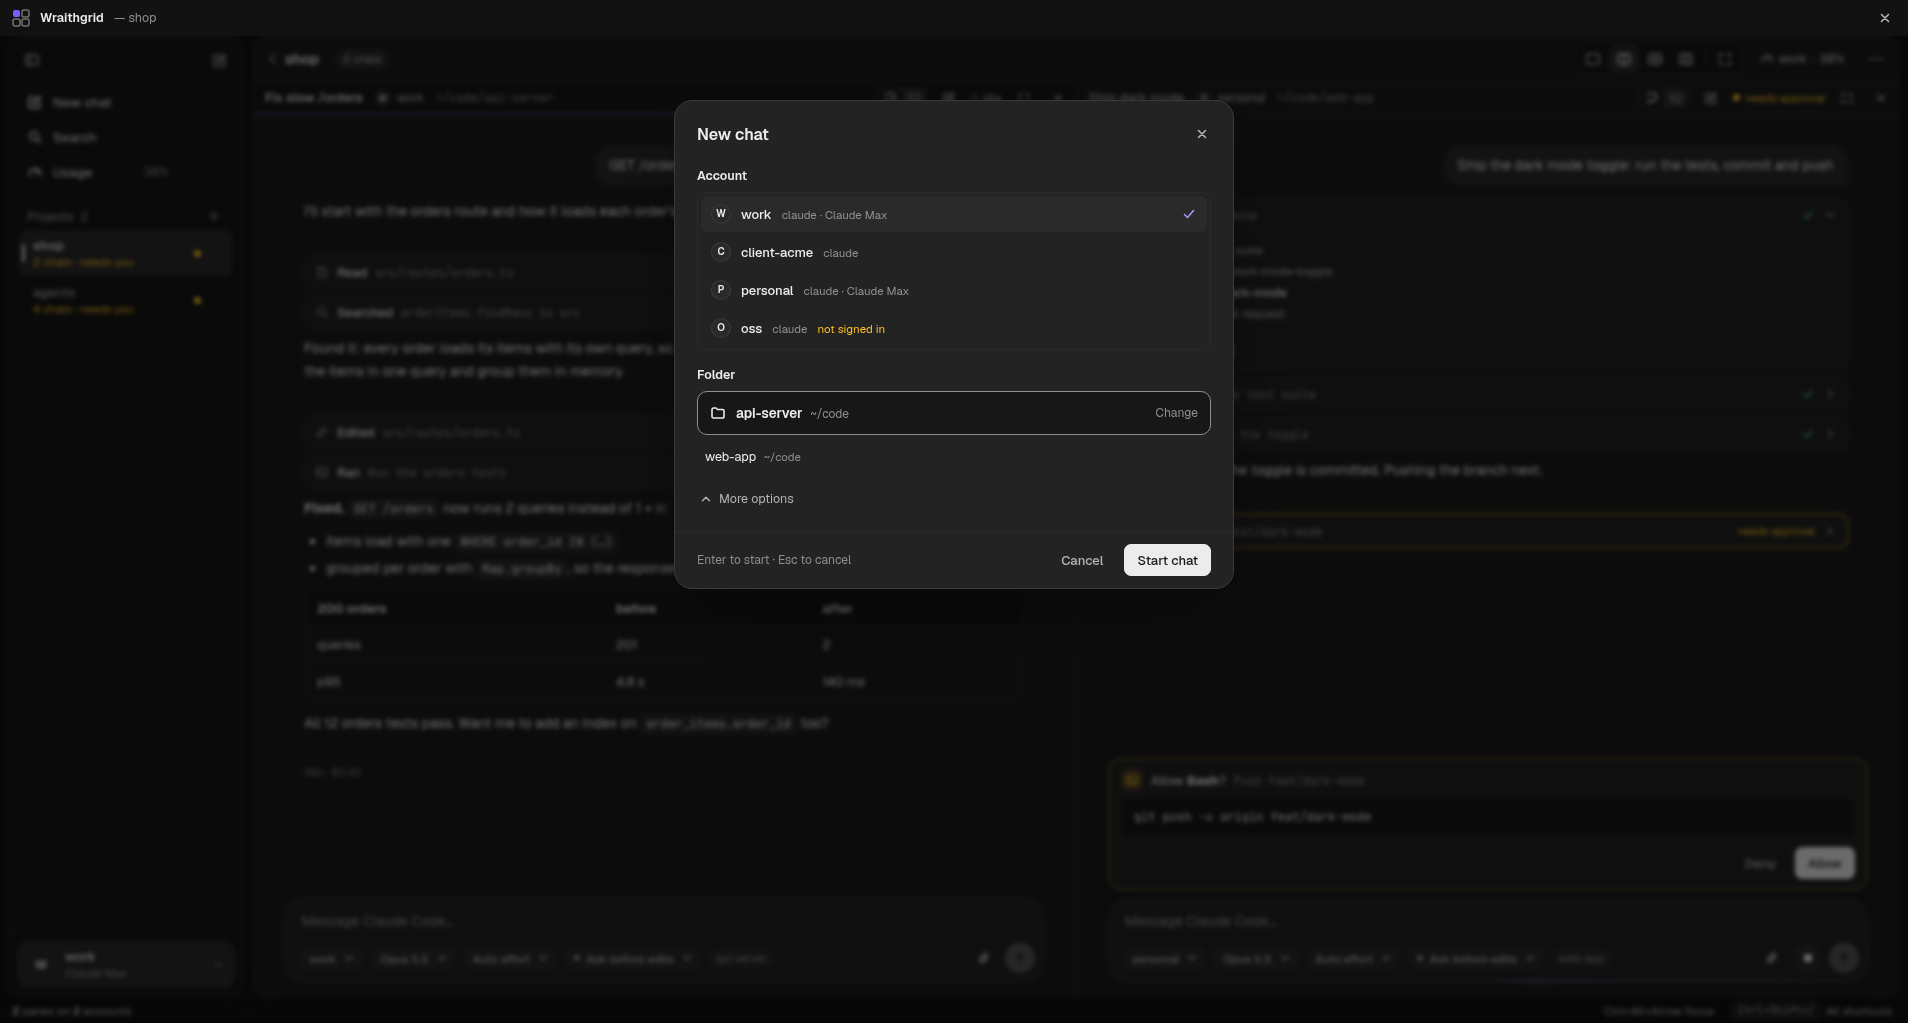
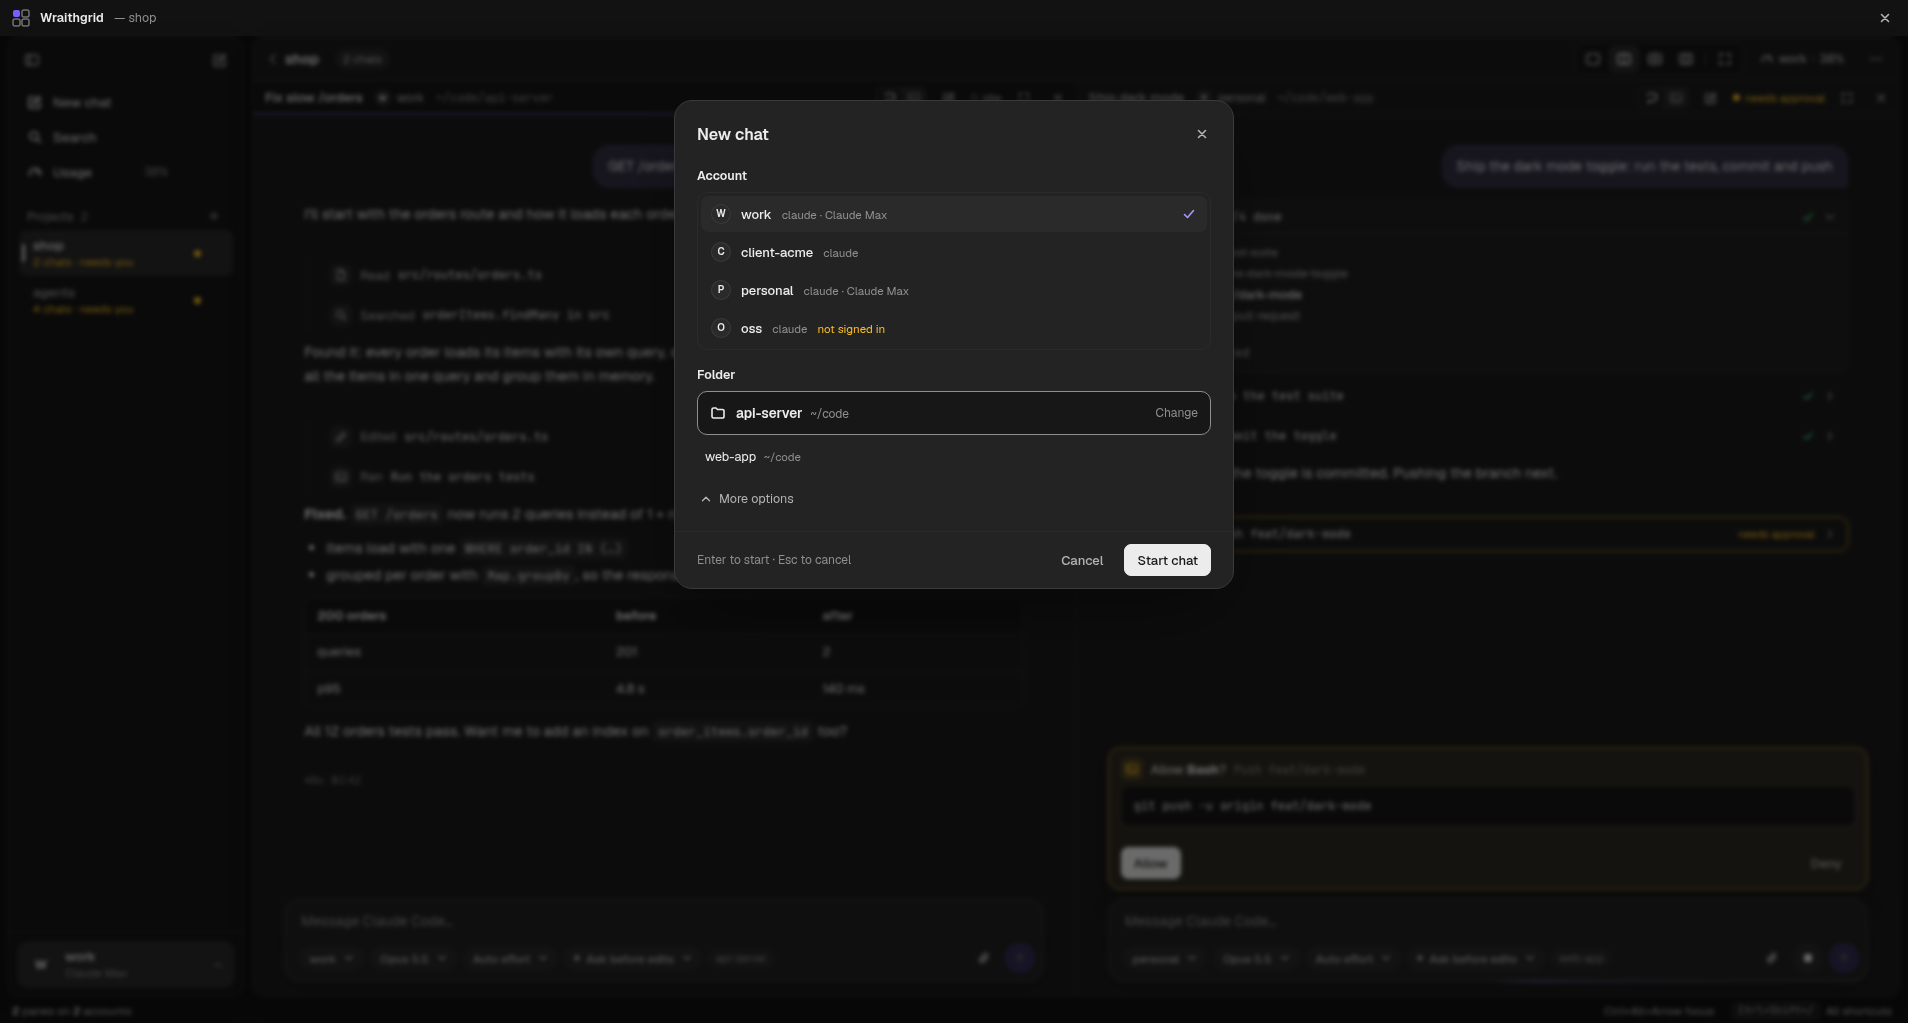
feat(ui): chat view redesign (#21)
Restyled from the agreed mockup: your messages in an accent-tinted bubble,
agent answers a touch larger, tool calls as a quiet timeline (a left rail
joins a run of them; a row is boxed only when hovered or opened), the
approval bar warn-tinted with Allow first and Deny set apart, a firmer
message box with an accent Send, a welcome screen naming the folder with
starter cards that say what each does (one column in narrow panes), and a
dashed green card for background work. Entrance motion is a 6px rise in
220ms; every color comes from the theme's variables, and reduced motion
still turns it all off. README screenshots retaken.

Closes #21

diff --git a/src/renderer/styles/chat.css b/src/renderer/styles/chat.css
@@ -85,7 +85,17 @@
   padding-top: 32px;
 }
 .chat-it.enter {
-  animation: chat-rise 0.32s var(--ease-out) both;
+  animation: chat-rise 0.22s var(--ease-out) both;
+}
+/* Tool calls read as one quiet timeline (#21): a rail on the left joins a run of them. */
+.chat-it.tool {
+  margin-left: 4px;
+  padding-left: 10px;
+  border-left: 1.5px solid var(--line);
+}
+.chat-it.tool + .chat-it.tool {
+  margin-top: -6px;
+  padding-top: 6px;
 }
 
 /* ---- Empty state --------------------------------------------------------------------- */
@@ -102,8 +112,8 @@
   animation: chat-rise 0.45s var(--ease-out) both;
 }
 .chat-hello h2 {
-  margin: 10px 0 0;
-  font-size: 22px;
+  margin: 12px 0 0;
+  font-size: 21px;
   font-weight: 600;
   letter-spacing: -0.01em;
   color: var(--tx);
@@ -114,29 +124,39 @@
   font-size: 12.5px;
 }
 .chat-hello-mark {
-  width: 34px;
-  height: 34px;
-  border-radius: 10px;
-  background: conic-gradient(from 210deg, var(--acc), var(--acct), var(--acc));
-  opacity: 0.9;
+  width: 44px;
+  height: 44px;
+  border-radius: 12px;
+  background: conic-gradient(
+    from 200deg,
+    var(--acc),
+    color-mix(in srgb, var(--acc) 45%, var(--bg)),
+    var(--acc)
+  );
+  box-shadow: 0 10px 30px -12px var(--acc);
   animation: chat-breathe 4s ease-in-out infinite;
 }
 .chat-sugs {
-  display: flex;
-  flex-wrap: wrap;
-  justify-content: center;
+  display: grid;
+  grid-template-columns: repeat(2, minmax(0, 1fr));
   gap: 8px;
   margin-top: 18px;
-  max-width: 520px;
+  width: min(520px, 100%);
+}
+@container pane (max-width: 440px) {
+  .chat-sugs {
+    grid-template-columns: 1fr;
+  }
 }
 .chat-sug {
-  border: 1px solid var(--line2);
-  border-radius: 999px;
-  background: var(--panel);
-  color: var(--mu);
+  border: 1px solid var(--line);
+  border-radius: 10px;
+  background: color-mix(in srgb, var(--panel) 70%, var(--bg));
+  color: var(--tx);
   font: inherit;
-  font-size: 12.5px;
-  padding: 6px 12px;
+  font-size: 13px;
+  text-align: left;
+  padding: 10px 12px;
   cursor: pointer;
   animation: chat-rise 0.4s var(--ease-out) both;
   transition:
@@ -148,6 +168,12 @@
   color: var(--tx);
   border-color: var(--hover-line);
   transform: translateY(-1px);
+}
+.chat-sug span {
+  display: block;
+  margin-top: 2px;
+  color: var(--fa);
+  font-size: 12px;
 }
 .chat-sug:disabled {
   opacity: 0.5;
@@ -169,8 +195,10 @@
 .cmsg-bubble {
   max-width: min(85%, 600px);
   padding: 9px 14px;
-  border-radius: 18px 18px 4px 18px;
-  background: var(--raise);
+  border-radius: 16px 16px 4px 16px;
+  /* Your words: the theme's accent mixed into "raised", so every theme tints its own. */
+  background: color-mix(in srgb, var(--acc) 12%, var(--raise));
+  border: 1px solid color-mix(in srgb, var(--acc) 22%, var(--line));
   white-space: pre-wrap;
   overflow-wrap: anywhere;
 }
@@ -183,6 +211,7 @@
 .cmsg.agent {
   position: relative;
   padding: 2px 0;
+  font-size: 14.5px;
 }
 .cmsg-tools {
   display: flex;
@@ -306,7 +335,7 @@ li.done > .md-box,
   margin: 4px 0 12px;
   border: 1px solid var(--line);
   border-radius: 10px;
-  background: var(--bg2);
+  background: color-mix(in srgb, var(--bg2) 75%, var(--bg));
   overflow: hidden;
 }
 .md-code-h {
@@ -445,16 +474,21 @@ li.done > .md-box,
 /* ---- Tool calls ---------------------------------------------------------------------- */
 
 .ct {
-  border: 1px solid var(--line);
+  border: 1px solid transparent;
   border-radius: 10px;
-  background: var(--panel);
+  background: none;
   overflow: hidden;
   transition:
     border-color 0.2s,
     background 0.2s;
 }
+/* One line until opened; a card only when it has something to show. */
 .ct:hover {
-  border-color: var(--line2);
+  background: var(--hover);
+}
+.ct.open {
+  border-color: var(--line);
+  background: color-mix(in srgb, var(--panel) 70%, var(--bg));
 }
 .ct-h {
   display: flex;
@@ -477,19 +511,23 @@ li.done > .md-box,
 .ct-ic {
   display: grid;
   place-items: center;
-  color: var(--fa);
+  width: 22px;
+  height: 22px;
+  border-radius: 6px;
+  background: var(--raise);
+  color: var(--mu);
+  flex: none;
 }
 .ct-name {
   flex: none;
-  font-weight: 500;
-  color: var(--tx);
+  color: var(--mu);
 }
 .ct-sub {
   flex: 1;
   min-width: 0;
   font-family: var(--font-mono);
-  font-size: 11.5px;
-  color: var(--fa);
+  font-size: 12px;
+  color: var(--tx);
   white-space: nowrap;
   overflow: hidden;
   text-overflow: ellipsis;
@@ -667,7 +705,8 @@ li.done > .md-box,
 .chat-bg {
   margin: 6px 0;
   padding: 8px 10px;
-  border: 1px solid var(--line);
+  border: 1px dashed color-mix(in srgb, var(--ok) 45%, var(--line));
+  background: color-mix(in srgb, var(--ok) 5%, transparent);
   border-radius: 8px;
   font-size: 12.5px;
   animation: chat-fade 0.3s var(--ease-out);
@@ -744,9 +783,9 @@ li.done > .md-box,
   padding: 4px 10px 10px;
 }
 .ca {
-  border: 1px solid color-mix(in srgb, var(--warn) 45%, var(--line2));
-  border-radius: 14px;
-  background: var(--panel);
+  border: 1px solid color-mix(in srgb, var(--warn) 55%, var(--line2));
+  border-radius: 12px;
+  background: color-mix(in srgb, var(--warn) 6%, var(--panel));
   box-shadow: 0 8px 28px rgba(0, 0, 0, 0.22);
   overflow: hidden;
   animation: chat-rise 0.3s var(--ease-spring) both;
@@ -791,10 +830,15 @@ li.done > .md-box,
 }
 .ca-btns {
   display: flex;
-  justify-content: flex-end;
   flex-wrap: wrap;
   gap: 6px;
   padding: 10px 12px;
+  border-top: 1px solid var(--line);
+  margin-top: 10px;
+}
+/* The safe answer first; Deny apart on the right, quiet. */
+.ca-deny {
+  margin-left: auto;
 }
 .chat-bar {
   display: flex;
@@ -827,15 +871,17 @@ li.done > .md-box,
   display: flex;
   flex-direction: column;
   border: 1px solid var(--line2);
-  border-radius: 20px;
+  border-radius: 16px;
   background: var(--panel);
-  box-shadow: 0 2px 12px rgba(0, 0, 0, 0.12);
+  box-shadow:
+    0 6px 24px -8px rgba(0, 0, 0, 0.35),
+    0 1px 2px rgba(0, 0, 0, 0.12);
   transition:
     border-color 0.2s,
     box-shadow 0.25s;
 }
 .cc-box:focus-within {
-  border-color: var(--hover-line);
+  border-color: color-mix(in srgb, var(--acc) 55%, var(--line2));
   box-shadow:
     0 2px 18px rgba(0, 0, 0, 0.18),
     0 0 0 3px color-mix(in srgb, var(--acc) 14%, transparent);
@@ -928,11 +974,11 @@ li.done > .md-box,
   stroke-width: 2;
 }
 .cc-btn.send {
-  background: var(--solid);
-  color: var(--on-solid);
+  background: var(--accf);
+  color: var(--on-acc);
 }
 .cc-btn.send:hover:not(:disabled) {
-  background: var(--solid-h);
+  background: var(--accf-h);
   transform: scale(1.06);
 }
 .cc-btn.send:active:not(:disabled) {
@@ -1050,7 +1096,7 @@ li.done > .md-box,
 @keyframes chat-rise {
   from {
     opacity: 0;
-    transform: translateY(8px);
+    transform: translateY(6px);
   }
   to {
     opacity: 1;

diff --git a/src/renderer/components/chat/ChatView.tsx b/src/renderer/components/chat/ChatView.tsx
@@ -37,11 +37,15 @@ interface Props {
 
 const STICK_PX = 48
 
-const SUGGESTIONS = [
-  'Explain how this project is put together',
-  'Review my uncommitted changes',
-  'Find and fix a bug',
-  'Write tests for the latest change'
+/** Starters on a new chat's first screen: what is sent, and a line on what it does. */
+const SUGGESTIONS: { text: string; hint: string }[] = [
+  {
+    text: 'Explain how this project is put together',
+    hint: 'A map of its folders and how they fit'
+  },
+  { text: 'Review my uncommitted changes', hint: 'Before you commit them' },
+  { text: 'Find and fix a bug', hint: 'Say what goes wrong; it reproduces it first' },
+  { text: 'Write tests for the latest change', hint: 'Reads the last commit and covers it' }
 ]
 
 function formatDuration(ms: number): string {
@@ -287,7 +291,7 @@ export function ChatView({ paneId, visible, focused }: Props) {
           {thread.items.length === 0 ? (
             <div className="chat-hello">
               <div className="chat-hello-mark" aria-hidden="true" />
-              <h2>What should we build?</h2>
+              <h2>What should we build in {baseName(cwdLabel) || 'this folder'}?</h2>
               <p>
                 {cliLabel}
                 {account ? ` · ${account.name}` : ''} · <span className="mono">{cwdLabel}</span>
@@ -295,13 +299,14 @@ export function ChatView({ paneId, visible, focused }: Props) {
               <div className="chat-sugs">
                 {SUGGESTIONS.map((s, i) => (
                   <button
-                    key={s}
+                    key={s.text}
                     className="chat-sug"
                     style={{ animationDelay: `${80 + i * 50}ms` }}
                     disabled={!ready}
-                    onClick={() => send(s, [])}
+                    onClick={() => send(s.text, [])}
                   >
-                    {s}
+                    {s.text}
+                    <span>{s.hint}</span>
                   </button>
                 ))}
               </div>
@@ -309,7 +314,7 @@ export function ChatView({ paneId, visible, focused }: Props) {
           ) : (
             thread.items.map((it, i) => {
               return (
-                <div key={it.id} className={`chat-it${i >= still ? ' enter' : ''}`}>
+                <div key={it.id} className={`chat-it ${it.kind}${i >= still ? ' enter' : ''}`}>
                   <Item
                     item={it}
                     live={thread.busy}

diff --git a/src/renderer/components/chat/ToolCard.tsx b/src/renderer/components/chat/ToolCard.tsx
@@ -174,8 +174,8 @@ export function ApprovalBar({
         </div>
       ) : null}
       <div className="ca-btns">
-        <button className="btn gh" onClick={() => onDecide('deny')}>
-          Deny
+        <button className="btn pri" onClick={() => onDecide('allow')}>
+          Allow
         </button>
         {item.approval?.canAlways ? (
           <button
@@ -186,8 +186,8 @@ export function ApprovalBar({
             Always allow
           </button>
         ) : null}
-        <button className="btn pri" onClick={() => onDecide('allow')}>
-          Allow
+        <button className="btn gh ca-deny" onClick={() => onDecide('deny')}>
+          Deny
         </button>
       </div>
     </div>

diff --git a/CHANGELOG.md b/CHANGELOG.md
@@ -2,6 +2,7 @@
 
 ## 2026-10-22
 
+- [ui] Chat view redesign (#21, mockup agreed): your messages in an accent-tinted bubble, agent text a touch larger, tool calls as a quiet timeline (left rail; a card only when opened), approval bar warn-tinted with Allow first and Deny apart, message box firmer with an accent Send, welcome screen "What should we build in <folder>?" with starter cards (hint line; one column in narrow panes), background-work card dashed green, entrance motion 6px/220ms; colors all from theme variables; README screenshots retaken (files: src/renderer/components/chat/{ChatView,ToolCard}.tsx, src/renderer/styles/chat.css, docs/screenshots/*.png)
 - [chat] Codex CLI chats and sign-in dialog (#40): new `chat/codex.ts` adapter over `codex app-server` (JSON-RPC on stdio; codex-cli 0.163.0): threads (start/resume by id/last), turns with model, effort and mode (approval policy + sandbox) per `turn/start`, streamed text and reasoning, command/edit/MCP/web cards, Allow/Always/Deny approvals, `turn/interrupt`, models and account from `model/list`/`account/read`, limits from rate-limit events. Login runs `codex login --device-auth` in the account's `CODEX_HOME` and shows the one-time code (links only on openai.com/chatgpt.com), then `codex login status`; login.ts is per-CLI (`LOGIN_FLOWS`). Images for agy/codex go through one temp-file helper; adapters may hold a message (`user()` → null) and a stop until ready (files: src/main/chat/{codex,images,agy,adapter,sessions}.ts, src/main/{login,ipc,app}.ts, src/shared/{agent-clis,ipc-contract}.ts, src/renderer/app/store.ts, src/renderer/components/LoginDialog.tsx, src/renderer/styles/polish.css, tests/unit/{chat-codex,login,chat}.test.ts, tests/e2e/chat-codex.spec.ts, tests/fixtures/{codex-chat.ndjson,fake-codex.mjs}, README.md)
 - [chat] Antigravity (`agy`) chats (#41): new `chat/agy.ts` adapter over agy 1.4.4's `--print= --input-format/--output-format stream-json` (`{event:user}` in; `init`/`step_update`/`result` out): streamed text, tool cards with output, models from `agy models` with `-low/-medium/-high` ids folded into Effort, modes (Ask/Accept edits/Plan/Bypass), resume by `--conversation`, images as `@path`. agy can't ask, stop or switch live, so a new `controls` event makes the view restart it for Stop/model/mode and say what it skipped for want of approval; terminal panes resume with `--continue` (files: src/main/chat/{agy,adapter,sessions}.ts, src/main/ipc.ts, src/shared/{chat,agent-clis}.ts, src/renderer/app/store.ts, src/renderer/lib/{chat-thread,chat-bus}.ts, src/renderer/components/chat/{ChatView,ModelPicker}.tsx, tests/unit/chat-agy.test.ts, tests/e2e/chat-agy.spec.ts, tests/fixtures/{fake-agy.sh,agy-chat.ndjson,agy-denied.ndjson}, README.md)
 - [chat] Background work shows (#39): claude's `background_tasks_changed` list becomes a `background` ChatEvent; after the turn the chat shows "Running in background" (each task, its age), the pane/sidebar/project rows read "in background" (new PaneStatus), the end is a notice, and claude's own follow-up turn marks the chat busy again; "done" waits for the background work; closing/deleting asks first (files: src/shared/{chat,types}.ts, src/main/chat/{claude,sessions}.ts, src/renderer/lib/{chat-thread,chat-bus}.ts, src/renderer/app/store.ts, src/renderer/components/{chat/ChatView,Sidebar,ProjectView,DeleteChatDialog}.tsx, src/renderer/styles/{chat,sidebar,base}.css, tests/unit/chat.test.ts, tests/e2e/chat.spec.ts, tests/fixtures/{claude-background.ndjson,fake-claude-chat.sh})

diff --git a/docs/DECISIONS.md b/docs/DECISIONS.md
@@ -99,6 +99,7 @@ Entries dated 2026-09-29 are reconstructed from the code and commit history duri
 - 2026-10-22 | Sidebar focus = 2px inset ring in `--acct` (accent text color) on every focusable sidebar element; sidebar motion = one `--side-t` (140ms) + `--side-ease` (no overshoot) | An outline outside the row sat on top of the selection highlight; `--acct` is tuned to read on the frame in each theme, so the ring meets WCAG non-text contrast where `--acc` may not (#25) | Accent outline with offset; a background-only focus (too close to hover/selected)
 - 2026-10-22 | The Usage pill/sidebar row show the focused pane's claude account (fallback: default, then first claude account), named when there are 2+ claude accounts; no number until that account reports one | Limits are per account; a pill showing another account's numbers was wrong (#20) | Always the default account with its name; borrowing another account's limit
 - 2026-10-22 | A project's defaults (folder, default account) live on the workspace itself (`folder`, `accountId`, schema-defaulted so old configs load); New chat prefers them over the app-wide defaults | One obvious home for #26's "new chats start there", no second store; internal `workspace` naming stays per the issue | A separate projects list (a migration for nothing); only app-level defaults (not per project)
+- 2026-10-22 | Chat look (#21): user bubble = accent mixed 12% into `--raise` (border 22% into `--line`), tool calls borderless rows joined by a left rail and boxed only when open, approval buttons Allow · Always · (gap) Deny | Closer to Claude desktop / T3 Code, and every theme tints it from its own accent; tool noise recedes behind the answer | Neutral grey bubble (old); a card per tool call (old); per-theme bubble colors in theme files (comes with #24)
 - 2026-10-22 | codex chat runs `codex app-server` (JSON-RPC, one long-lived process), not `codex exec --json`; codex sign-in uses `codex login --device-auth` | app-server keeps a multi-turn thread, interrupts a turn and asks for approvals over the pipe, and takes model/effort/mode per turn; exec is one process per prompt with no approvals. Device auth needs no local callback and fits the dialog (#40) | `exec --json` + `exec resume`; browser OAuth `codex login` (callback port); `--with-api-key` (we'd handle the key)
 - 2026-10-22 | agy chat: a `controls` ChatEvent says what a CLI can't do live (interrupt/model/mode, approvals, its modes); the store restarts the chat quietly (resume by id) for those; models come from a `listModels` command run by main after start | agy 1.4.4 headless has no stdin interrupt or approval events and ignores SIGINT; keeps the UI CLI-agnostic (ADR 0002) (#41) | Branch on `cli === 'agy'` in the UI; kill without resuming; drop Stop for agy; parse models from agy's terminal UI
 - 2026-10-22 | Background work is its own state: ChatEvent `background` (the CLI's whole task list) and PaneStatus `background`, separate from `busy`; "done" and its notification wait until it ends; the follow-up turn claude starts by itself is signalled by `task_notification` | A turn ending is not the work ending; folding it into `busy` would keep Stop and the working dots up for minutes (#39) | Treat the chat as busy until background work ends; parse tool_use `run_in_background` and match tool results ourselves; emit busy on every `init`
